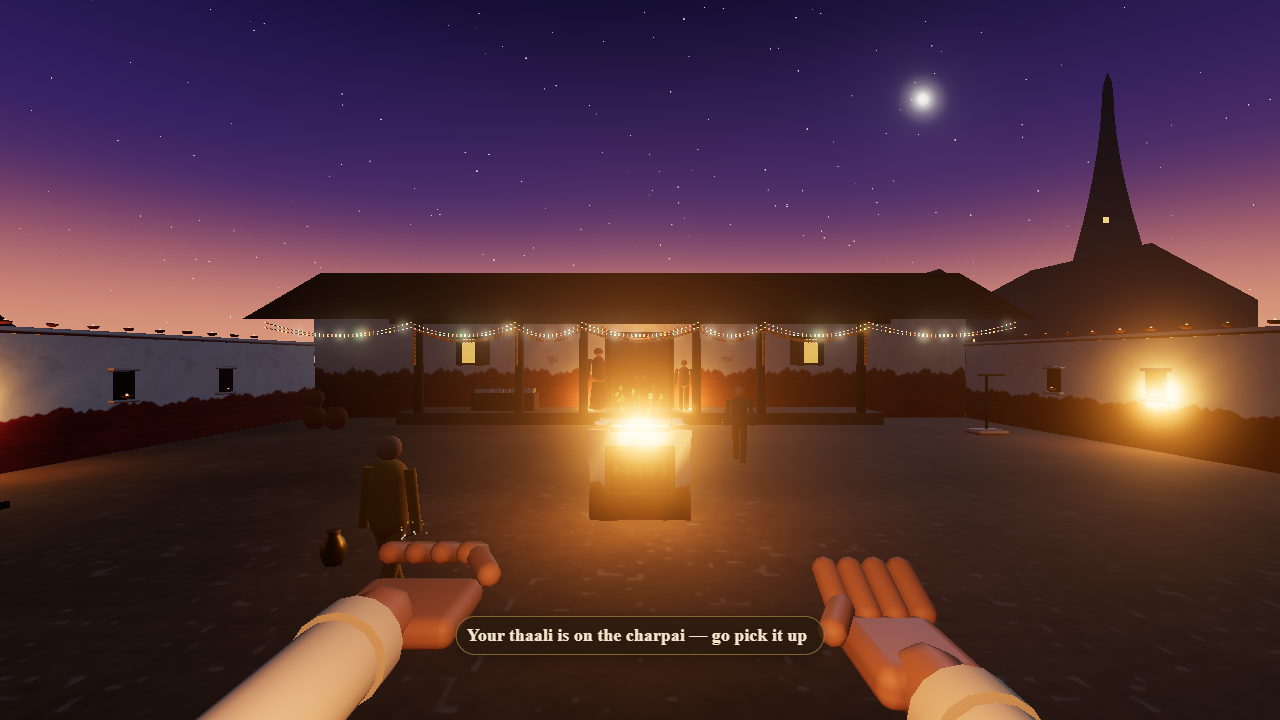
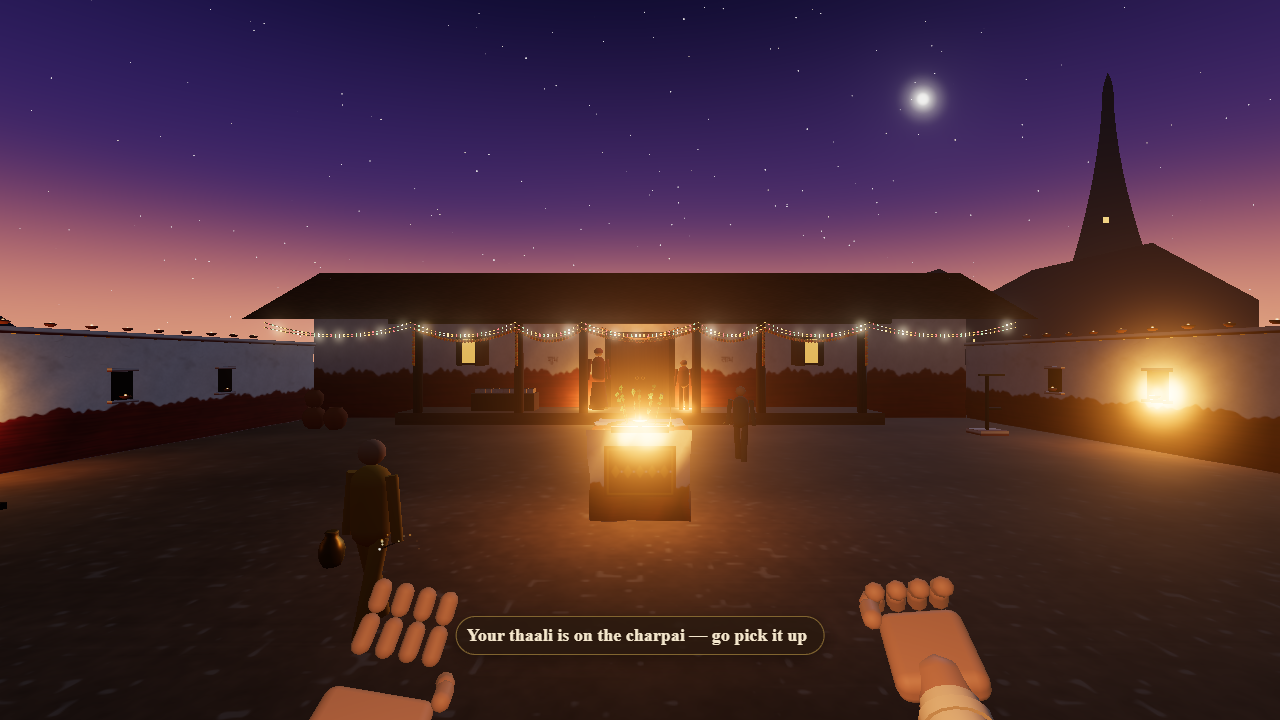
fix: relax the hands into a natural grip

diff --git a/src/player/Hands.ts b/src/player/Hands.ts
@@ -1,6 +1,7 @@
-// Stylised first-person hands: a cream kurta sleeve with its cuff at the wrist, warm brown skin from the wrist down,
-// a rounded palm with four finger capsules and a thumb. They are parented to the player camera; the right hand
-// grips the agarbatti and jabs forward to light fuses, and the left hand cradles the thaali.
+// Stylised first-person hands: a slim cream kurta sleeve that flares open toward the bottom of the screen, warm
+// brown skin from the wrist down, a rounded palm and two-segment fingers curled into a loose grip, with a thumb.
+// They are parented to the player camera; the right hand grips the agarbatti and jabs forward to light fuses, and
+// the left hand cradles the thaali. With the left hand empty it rests lower, partly out of frame.
 // The caller must add the camera to the scene, since children of a camera only render when it is in the scene.
 import * as THREE from 'three';
 import { RoundedBoxGeometry } from 'three/addons/geometries/RoundedBoxGeometry.js';
@@ -8,27 +9,49 @@ import type { Updatable } from '../core/Engine';
 
 /** Off-white kurta cream for the sleeves and cuffs; warmer than white so the blue night light does not grey it. */
 const KURTA = 0xd9c49a;
-/** Warm brown skin for the hands and wrists. */
-const SKIN = 0xb07a52;
+/** Natural warm brown skin for the hands and wrists. */
+const SKIN = 0x9a6a4a;
 /** Camera-local rest position of the right wrist; well clear of the 0.05 m near plane. */
-const RIGHT_BASE = new THREE.Vector3(0.30, -0.34, -0.5);
+const RIGHT_BASE = new THREE.Vector3(0.3, -0.34, -0.5);
 /**
- * Camera-local rest position of the left wrist. Pulled forward and up so the near rim of a plate held here
- * sits within the 35° half-field of view below the centre of the screen.
+ * Camera-local rest position of the left wrist when it holds the thaali. Pulled forward and up so the near rim of a
+ * plate held here sits within the 35° half-field of view below the centre of the screen.
  */
 const LEFT_BASE = new THREE.Vector3(-0.32, -0.32, -0.6);
-/** Radius of the forearm sleeve, in metres. */
-const SLEEVE_RADIUS = 0.036;
+/**
+ * Camera-local rest position of the left wrist when empty: lower and further out, so the hand sits partly below the
+ * bottom edge of the frame.
+ */
+const LEFT_REST = new THREE.Vector3(-0.3, -0.42, -0.5);
+/** How fast the left hand glides between its held and empty rest positions, per second. */
+const LEFT_SETTLE = 6;
+/** Radius of the sleeve at the wrist end, in metres. */
+const SLEEVE_WRIST_RADIUS = 0.028;
+/** Radius of the sleeve's open end, nearest the camera, in metres; the cloth flares a little toward it. */
+const SLEEVE_OPEN_RADIUS = 0.04;
+/** Length of the sleeve from the wrist toward the camera, in metres. Long enough to leave the bottom of the frame. */
+const SLEEVE_LENGTH = 0.26;
 /** Radius of the cream cuff band at the wrist, slightly wider than the sleeve, in metres. */
-const CUFF_RADIUS = 0.040;
+const CUFF_RADIUS = 0.033;
 /** Radius of the wrist skin where it meets the sleeve, in metres. */
-const WRIST_RADIUS = 0.030;
-/** Uniform scale of both hand groups; the grips and held items are children, so they scale with the hands. */
-const HAND_SCALE = 1.3;
+const WRIST_RADIUS = 0.026;
+/** Uniform scale of both hand groups; about three quarters of the earlier size. */
+const HAND_SCALE = 0.975;
 /** Radius of each finger and the thumb, in metres. */
-const FINGER_RADIUS = 0.013;
-/** Straight length of each finger and the thumb, in metres. */
-const FINGER_LENGTH = 0.05;
+const FINGER_RADIUS = 0.012;
+/** Straight length of the proximal and distal finger segments, in metres. */
+const FINGER_SEG_1 = 0.026;
+const FINGER_SEG_2 = 0.02;
+/** Curl of the right fingers over the grip (radians): the first segment at about 45°, the second about 70° in all. */
+const RIGHT_CURL: [number, number] = [-0.78, -0.44];
+/** Curl of the left fingers up over the plate's near rim (radians): about 40° then 65° in all. */
+const LEFT_CURL: [number, number] = [0.7, 0.4];
+/**
+ * Pose of each hand relative to its wrist (radians). The palms turn so the back of the hand faces the camera and
+ * up, the way a hand looks when held in front of the face; the left palm still cups the plate from below.
+ */
+const RIGHT_POSE = new THREE.Euler(0.35, -0.2, 0.3);
+const LEFT_POSE = new THREE.Euler(0.2, 0.1, -0.3);
 /** Warm fill light at the camera so the hands and the thaali stay readable in any lighting. */
 const FILL_COLOR = 0xffb070;
 const POKE_TIME = 0.25;
@@ -57,6 +80,8 @@ export class Hands implements Updatable {
   private readonly leftGrip = new THREE.Group();
   private readonly swayTarget = new THREE.Vector2();
   private readonly swayPos = new THREE.Vector2();
+  private readonly leftPos = LEFT_REST.clone();
+  private leftFull = false;
   private pokeLeft = 0;
 
   /** Builds both hands and attaches them to the camera; the camera itself must be added to the scene. */
@@ -70,40 +95,44 @@ export class Hands implements Updatable {
     const skin = new THREE.MeshStandardMaterial({
       color: SKIN,
       roughness: 0.6,
-      emissive: 0x3a1c0c,
-      emissiveIntensity: 0.5,
+      emissive: SKIN,
+      emissiveIntensity: 0.25,
     });
 
     this.right.position.copy(RIGHT_BASE);
-    this.left.position.copy(LEFT_BASE);
+    this.left.position.copy(LEFT_REST);
     this.right.scale.setScalar(HAND_SCALE);
     this.left.scale.setScalar(HAND_SCALE);
-    this.rightGrip.position.set(0, 0.02, -0.1);
-    // The plate underside rests on the palm top (y = 0), so the thaali sits on the palm instead of floating.
-    this.leftGrip.position.set(0, 0, -0.1);
 
-    // Right hand: the wrist is the origin, the forearm runs back toward the viewer (+z), and the palm closes
-    // around the agarbatti grip in front of it. Four fingers curl over the grip, the thumb sits on the inner side.
-    this.right.add(
+    // Each hand has a pose group, so the palm, fingers, grip and sleeve all turn together around the wrist.
+    const rightPose = new THREE.Group();
+    rightPose.rotation.copy(RIGHT_POSE);
+    this.rightGrip.position.set(0, 0.02, -0.1);
+    rightPose.add(
       ...sleeveAndWrist(kurta, skin),
       palm(0.09, 0.035, 0.1, skin, 0, 0, -0.06),
       this.rightGrip,
     );
     for (let i = 0; i < 4; i++) {
-      this.right.add(limb(FINGER_RADIUS, FINGER_LENGTH, skin, -0.039 + i * 0.026, 0.028, -0.13, 0.5));
+      rightPose.add(finger(skin, -0.039 + i * 0.026, 0.024, -0.13, RIGHT_CURL));
     }
-    this.right.add(limb(FINGER_RADIUS, FINGER_LENGTH, skin, -0.05, 0.02, -0.09, 0, 0.5));
+    rightPose.add(thumb(skin, -0.05, 0.016, -0.09, 0.5));
+    this.right.add(rightPose);
 
-    // Left hand: palm flat under the thaali, four fingers curling up over its near rim, thumb on the outer side.
-    this.left.add(
+    // Left hand: palm flat under the thaali, fingers curling up over its near rim, thumb on the outer side.
+    const leftPose = new THREE.Group();
+    leftPose.rotation.copy(LEFT_POSE);
+    this.leftGrip.position.set(0, 0, -0.1);
+    leftPose.add(
       ...sleeveAndWrist(kurta, skin),
       palm(0.13, 0.03, 0.11, skin, 0.005, -0.015, -0.07),
       this.leftGrip,
     );
     for (let i = 0; i < 4; i++) {
-      this.left.add(limb(FINGER_RADIUS, FINGER_LENGTH, skin, -0.045 + i * 0.03, 0.012, -0.16, -0.35));
+      leftPose.add(finger(skin, -0.045 + i * 0.03, 0.006, -0.16, LEFT_CURL));
     }
-    this.left.add(limb(FINGER_RADIUS, FINGER_LENGTH, skin, 0.075, 0.02, -0.1, 0, -0.5));
+    leftPose.add(thumb(skin, 0.075, 0.012, -0.1, -0.5));
+    this.left.add(leftPose);
 
     // Hands skip frustum culling (their bounds sit at the screen edge) and draw after other opaque
     // geometry; depth testing still hides them behind anything nearer, which is the desired result.
@@ -140,6 +169,7 @@ export class Hands implements Updatable {
   /** Puts an object (the thaali) into the left hand, or clears the hand when given null. */
   holdLeft(obj: THREE.Object3D | null): void {
     this.leftGrip.clear();
+    this.leftFull = obj !== null;
     if (obj) {
       obj.position.set(0, 0, 0);
       obj.rotation.set(0.2, 0, 0);
@@ -158,7 +188,7 @@ export class Hands implements Updatable {
     this.swayTarget.y = clamp(this.swayTarget.y - mouseDy * SWAY_GAIN, SWAY_MAX);
   }
 
-  /** Applies the idle breathing bob, the mouse-sway lag and the poke jab to the two hand groups. */
+  /** Applies the idle breathing bob, the mouse-sway lag, the poke jab and the left hand's rest to the two groups. */
   update(dt: number, t: number): void {
     this.swayTarget.multiplyScalar(Math.exp(-SWAY_DECAY * dt));
     this.swayPos.lerp(this.swayTarget, 1 - Math.exp(-SWAY_FOLLOW * dt));
@@ -172,30 +202,40 @@ export class Hands implements Updatable {
       jab = Math.sin((1 - this.pokeLeft / POKE_TIME) * Math.PI) * POKE_DIST;
     }
 
+    // The left hand rises to the plate when one is held and sinks out of frame when the hand is empty.
+    const target = this.leftFull ? LEFT_BASE : LEFT_REST;
+    this.leftPos.lerp(target, 1 - Math.exp(-LEFT_SETTLE * dt));
+
     this.right.position.set(
       RIGHT_BASE.x + this.swayPos.x + breathX,
       RIGHT_BASE.y + this.swayPos.y + breathY,
       RIGHT_BASE.z - jab,
     );
     this.left.position.set(
-      LEFT_BASE.x + this.swayPos.x * 0.6 + breathX * 0.5,
-      LEFT_BASE.y + this.swayPos.y * 0.6 + breathY * 0.6,
-      LEFT_BASE.z,
+      this.leftPos.x + this.swayPos.x * 0.6 + breathX * 0.5,
+      this.leftPos.y + this.swayPos.y * 0.6 + breathY * 0.6,
+      this.leftPos.z,
     );
   }
 }
 
 /**
- * The forearm parts shared by both hands: the cream sleeve running back toward the viewer, the cuff band at the
- * wrist, and the short skin wrist that joins the sleeve to the palm. All sit on the wrist axis (the z axis).
+ * The forearm parts shared by both hands: the slim cream sleeve running back toward the viewer and flaring open at
+ * its far end, the cuff band at the wrist, and the short skin wrist that joins the sleeve to the palm. All sit on the
+ * wrist axis (the z axis).
  */
 function sleeveAndWrist(kurta: THREE.Material, skin: THREE.Material): THREE.Mesh[] {
-  const sleeve = new THREE.Mesh(new THREE.CylinderGeometry(SLEEVE_RADIUS, SLEEVE_RADIUS, 0.16, 16), kurta);
+  // CylinderGeometry's first radius is the top (+y end); a quarter turn about x points that end at the camera (+z),
+  // so the open end flares toward the viewer and the narrow end sits at the wrist.
+  const sleeve = new THREE.Mesh(
+    new THREE.CylinderGeometry(SLEEVE_OPEN_RADIUS, SLEEVE_WRIST_RADIUS, SLEEVE_LENGTH, 16, 1, true),
+    kurta,
+  );
   sleeve.rotation.x = Math.PI / 2;
-  sleeve.position.set(0, 0, 0.13);
-  const cuff = new THREE.Mesh(new THREE.CylinderGeometry(CUFF_RADIUS, CUFF_RADIUS, 0.03, 16), kurta);
+  sleeve.position.set(0, 0, SLEEVE_LENGTH / 2);
+  const cuff = new THREE.Mesh(new THREE.CylinderGeometry(CUFF_RADIUS, CUFF_RADIUS, 0.012, 16), kurta);
   cuff.rotation.x = Math.PI / 2;
-  cuff.position.set(0, 0, 0.03);
+  cuff.position.set(0, 0, 0.02);
   const wrist = limb(WRIST_RADIUS, 0.05, skin, 0, 0, 0);
   return [sleeve, cuff, wrist];
 }
@@ -211,23 +251,66 @@ function palm(w: number, h: number, d: number, mat: THREE.Material, x: number, y
 }
 
 /**
- * A capsule limb (a finger, the thumb or the wrist) of the given radius and straight length at a position. The
- * capsule lies along the z axis, pointing forward from the wrist, and `tiltX` and `tiltZ` (radians) bend it: a finger
- * tilts down over the grip, and the thumb angles across the palm.
+ * One finger: two capsule segments joined at knuckles. The root sits at the palm's front edge and each joint has its
+ * own curl, so the finger bends into a loose grip instead of lying flat. `curl` holds the two joint angles in radians.
  */
-function limb(
-  radius: number,
-  length: number,
+function finger(
   mat: THREE.Material,
   x: number,
   y: number,
   z: number,
-  tiltX = 0,
-  tiltZ = 0,
-): THREE.Mesh {
+  curl: [number, number],
+): THREE.Group {
+  const root = new THREE.Group();
+  root.position.set(x, y, z);
+  root.rotation.x = curl[0];
+  const seg1 = segment(FINGER_RADIUS, FINGER_SEG_1, mat);
+  root.add(seg1.mesh);
+  const joint = new THREE.Group();
+  joint.position.z = -seg1.span;
+  joint.rotation.x = curl[1];
+  const seg2 = segment(FINGER_RADIUS, FINGER_SEG_2, mat);
+  joint.add(seg2.mesh);
+  root.add(joint);
+  return root;
+}
+
+/** The thumb: a two-segment limb angled across the palm from its base, sitting at a given side of the hand. */
+function thumb(mat: THREE.Material, x: number, y: number, z: number, roll: number): THREE.Group {
+  const root = new THREE.Group();
+  root.position.set(x, y, z);
+  root.rotation.set(-0.35, 0, roll);
+  const seg1 = segment(FINGER_RADIUS, FINGER_SEG_1, mat);
+  root.add(seg1.mesh);
+  const joint = new THREE.Group();
+  joint.position.z = -seg1.span;
+  joint.rotation.x = -0.3;
+  const seg2 = segment(FINGER_RADIUS, FINGER_SEG_2, mat);
+  joint.add(seg2.mesh);
+  root.add(joint);
+  return root;
+}
+
+/**
+ * A capsule segment that starts at the local origin and points along -z. The mesh is centred so its near end sits on
+ * the origin; `span` is the distance from the origin to the far end, where the next joint attaches.
+ */
+function segment(radius: number, length: number, mat: THREE.Material): { mesh: THREE.Mesh; span: number } {
   const mesh = new THREE.Mesh(new THREE.CapsuleGeometry(radius, length, 4, 8), mat);
   // CapsuleGeometry runs along y; a quarter turn about x lays it along z.
-  mesh.rotation.set(Math.PI / 2 + tiltX, 0, tiltZ);
+  mesh.rotation.x = Math.PI / 2;
+  const span = length + 2 * radius;
+  mesh.position.z = -span / 2;
+  return { mesh, span };
+}
+
+/**
+ * A capsule limb (the wrist) of the given radius and straight length at a position. The capsule lies along the z axis,
+ * pointing forward from the wrist.
+ */
+function limb(radius: number, length: number, mat: THREE.Material, x: number, y: number, z: number): THREE.Mesh {
+  const mesh = new THREE.Mesh(new THREE.CapsuleGeometry(radius, length, 4, 8), mat);
+  mesh.rotation.set(Math.PI / 2, 0, 0);
   mesh.position.set(x, y, z);
   return mesh;
 }

diff --git a/tests/e2e/smoke.spec.ts b/tests/e2e/smoke.spec.ts
@@ -38,6 +38,8 @@ const INTRO_GONE_MS = 3000;
 const BURST_TIMEOUT_MS = 60000;
 /** Real milliseconds to keep recording once the first burst is counted, so the ground shot shows the anar burning. */
 const AFTER_BURST_MS = 1500;
+/** Real milliseconds to let the hands settle into their held pose before the held shot is taken. */
+const HELD_SETTLE_MS = 1500;
 /** Downward tilt in radians: a cracker 3 m ahead sits about 28° below the eye, so this centres it in the view. */
 const LOOK_DOWN = -0.5;
 /** Upward tilt in radians for the sky shot: about 25 degrees, so a burst 30 to 40 m up sits in the upper view. */
@@ -104,6 +106,21 @@ test('loads without console errors, starts from the intro and renders a lit vill
   const aangan = await page.screenshot({ path: 'screenshots/aangan.png' });
   expect((await pixelStats(page, aangan)).mean).toBeGreaterThan(MIN_MEAN_LUMINANCE);
 
+  expect(errors).toEqual([]);
+});
+
+test('the held shot shows the thaali with crackers and the lit agarbatti', async ({ page }) => {
+  const errors = await watchErrors(page);
+  await page.goto('/?debug');
+  await startFromIntro(page);
+
+  // The thaali on the left palm with crackers on it, and the agarbatti lit in the right fist. The hands ease into
+  // their held pose over a few frames, so the shot waits briefly before it is taken.
+  await page.evaluate(() => window.__diwali!.pickupAll());
+  await page.waitForTimeout(HELD_SETTLE_MS);
+  const held = await page.screenshot({ path: 'screenshots/held.png' });
+
+  expect((await pixelStats(page, held)).mean).toBeGreaterThan(MIN_MEAN_LUMINANCE);
   expect(errors).toEqual([]);
 });
 

diff --git a/src/Game.ts b/src/Game.ts
@@ -305,6 +305,7 @@ export class Game {
         lightAll: () => this.debugLightAll(),
         teleport: (x, z, yaw, pitch) => this.debugTeleport(x, z, yaw, pitch),
         state: () => ({ ...this.state }),
+        pickupAll: () => this.debugPickupAll(),
       });
     }
   }
@@ -674,6 +675,21 @@ export class Game {
     this.player.forward(this.tmpForward);
     const spot = placementPoint(this.player.position, this.tmpForward, DEBUG_PLACE_REACH);
     this.crackers.add(createCracker(kind, this.fx, spot, this.player.yaw));
+  }
+
+  /**
+   * Debug hook: puts the thaali in the left hand with a few crackers on it, and gives the player the agarbatti already
+   * lit in the right hand, so a screenshot can show the held state without playing through the pickups.
+   */
+  private debugPickupAll(): void {
+    this.pickUpThaali();
+    for (const kind of ['anar', 'chakri', 'laxmi', 'sutli'] as CrackerKind[]) this.thaali.inventory.add(kind);
+    this.thaali.refresh();
+    this.refreshStrip();
+    this.hasAgarbatti = true;
+    this.hands.holdRight(this.agarbatti.object);
+    this.agarbattiLit = true;
+    this.agarbatti.light();
   }
 
   /** Debug hook: lights every ground cracker that is still unlit. */

diff --git a/src/debugHook.ts b/src/debugHook.ts
@@ -14,6 +14,8 @@ export interface DiwaliDebug {
   teleport(x: number, z: number, yaw: number, pitch?: number): void;
   /** A copy of the gameplay state the prompts use, including the finale burst count. */
   state(): PlayerState;
+  /** Picks up the thaali with four crackers on it, and holds the agarbatti already lit in the right hand. */
+  pickupAll(): void;
 }
 
 declare global {
